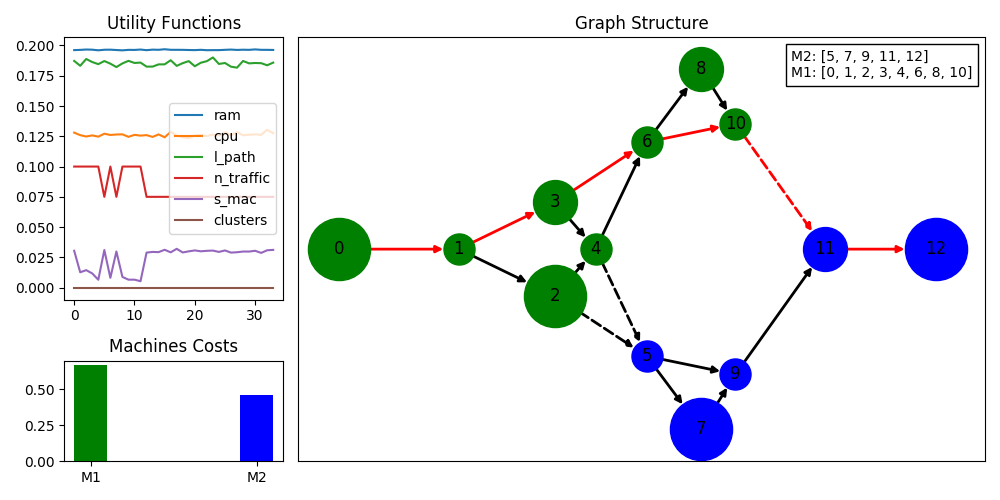
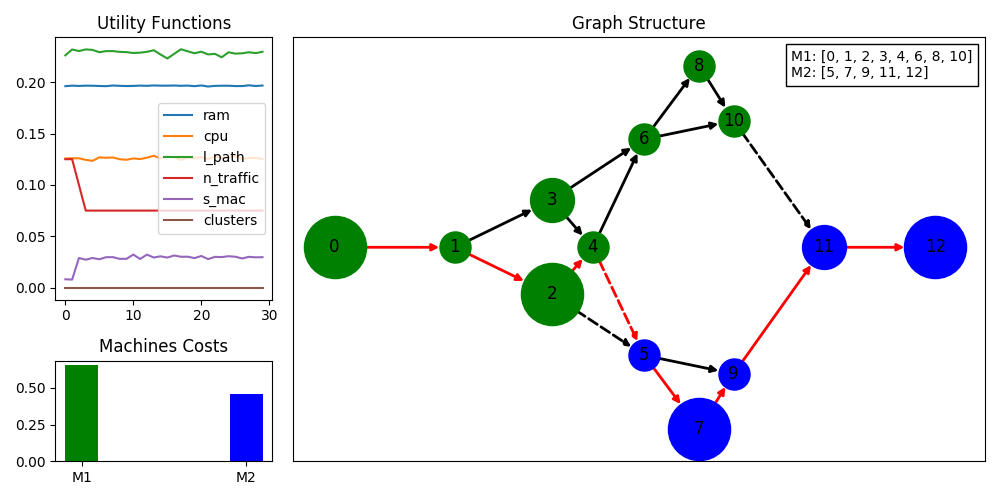
readme update

diff --git a/simulation/graph_manager.py b/simulation/graph_manager.py
@@ -1,3 +1,5 @@
+from twisted.conch.insults.insults import privateModes
+
 from simulation.machine_data import MachinesManager
 from matplotlib.offsetbox import AnchoredText
 import matplotlib.pyplot as plt
@@ -163,6 +165,7 @@ class GraphManager:
         # resets the variable
         self.longest_path = []
         self.utility_values['l_path'] = 0
+        max_cost = 0
         # get the points to find the longest path
         points = self.find_parallel_paths()
         # iterate over each possible source and target
@@ -174,9 +177,11 @@ class GraphManager:
                 # get the path cost
                 path_cost = self.calc_longest_path(path)
                 # check if is the bigger
-                if path_cost > self.utility_values['l_path']:
+                if path_cost > max_cost:
                     # calculates the medium value
                     cost_avg = path_cost / len(path)
+                    # updates the maximum value
+                    max_cost = path_cost
                     # replace the maximum
                     self.longest_path = path
                     self.utility_values['l_path'] = cost_avg
